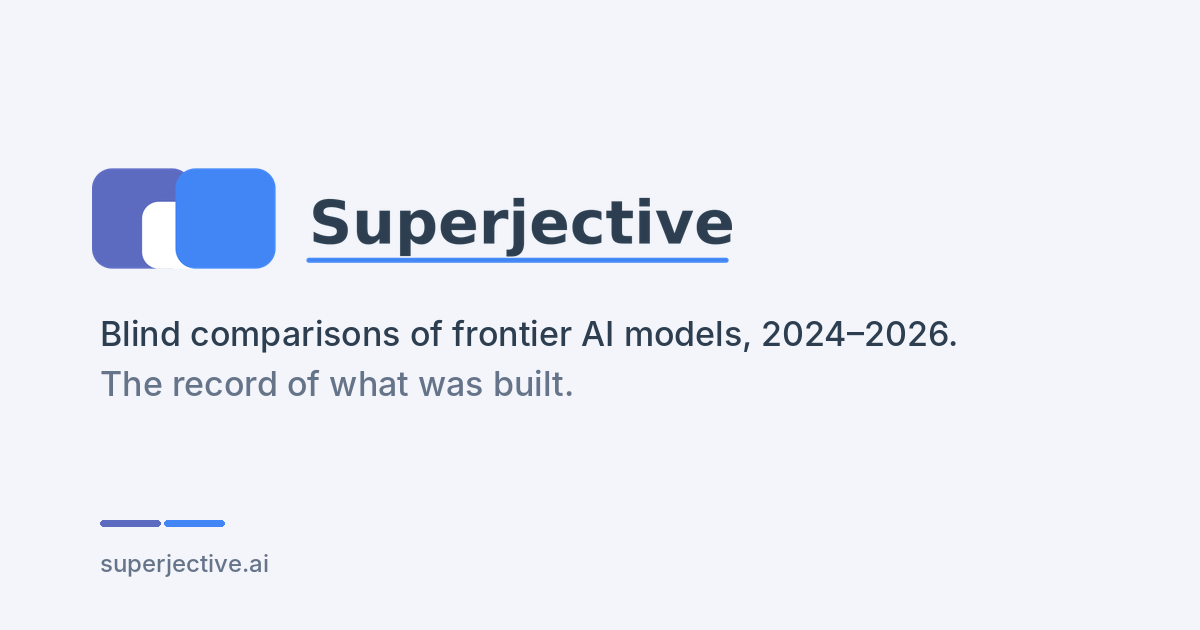
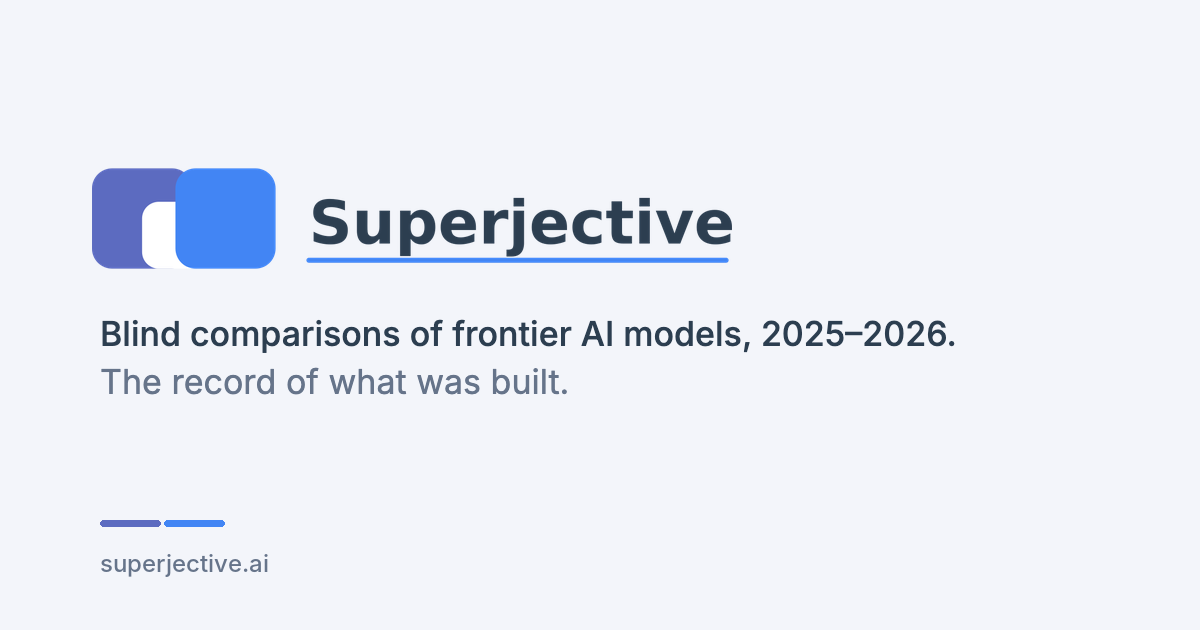
Update landing page content and assets

diff --git a/index.html b/index.html
@@ -4,21 +4,21 @@
 <meta charset="utf-8">
 <meta name="viewport" content="width=device-width, initial-scale=1">
 <title>Superjective</title>
-<meta name="description" content="Superjective ran blind comparisons of frontier AI models from 2024 to 2026. The benchmark, research and production system that came out of it, and where the work continues.">
+<meta name="description" content="Superjective ran blind comparisons of frontier AI models in 2025 and 2026. The benchmark, research and production system that came out of it, and where the work continues.">
 <link rel="canonical" href="https://superjective.ai/">
 
 <meta property="og:type" content="website">
 <meta property="og:site_name" content="Superjective">
 <meta property="og:url" content="https://superjective.ai/">
 <meta property="og:title" content="Superjective">
-<meta property="og:description" content="Blind comparisons of frontier AI models, 2024–2026. The benchmark, research and production system that came out of it.">
+<meta property="og:description" content="Blind comparisons of frontier AI models, 2025–2026. The benchmark, research and production system that came out of it.">
 <meta property="og:image" content="https://superjective.ai/assets/og-card.png">
 <meta property="og:image:width" content="1200">
 <meta property="og:image:height" content="630">
-<meta property="og:image:alt" content="Superjective: blind comparisons of frontier AI models, 2024–2026.">
+<meta property="og:image:alt" content="Superjective: blind comparisons of frontier AI models, 2025–2026.">
 <meta name="twitter:card" content="summary_large_image">
 <meta name="twitter:title" content="Superjective">
-<meta name="twitter:description" content="Blind comparisons of frontier AI models, 2024–2026. The benchmark, research and production system that came out of it.">
+<meta name="twitter:description" content="Blind comparisons of frontier AI models, 2025–2026. The benchmark, research and production system that came out of it.">
 <meta name="twitter:image" content="https://superjective.ai/assets/og-card.png">
 
 <link rel="icon" href="/assets/favicon.svg" type="image/svg+xml">
@@ -50,27 +50,30 @@
   <div class="hero">
     <div class="wrap">
       <div>
-        <h1>Which model output should you trust?</h1>
-        <p class="lede">Superjective was built to find out by asking people. From 2024 to 2026 it ran blind, side-by-side comparisons of frontier models: one prompt, several answers, the model names hidden until you had chosen. The preferences were kept as data. The product closed in October 2026, and what came out of it is below.</p>
-        <div class="now">
-          <p>The question didn't close with it. I'm now co-founder and COO of <a href="https://clearwood.ai">Clearwood</a>, which measures how deployed AI systems actually behave, independently of the vendors that built them.</p>
-          <span class="sig">Scott Burns</span>
-        </div>
+        <h1>Do you trust your model's output?</h1>
+        <p class="lede">Superjective was built to find out by gathering authentic user preferences. In 2025 and 2026 it ran blind, side-by-side comparisons of frontier models: one prompt, several answers, the model names hidden until the user had chosen. The preferences affected model sampling for the user and were kept for analysis. The product shut down in October 2026. Some insights from its run are featured below.</p>
       </div>
-      <figure class="shot">
+      <figure class="stack">
         <picture>
-          <source srcset="/assets/comparison-interface.webp" type="image/webp">
-          <img src="/assets/comparison-interface.png" width="1200" height="612" alt="The Superjective comparison screen: a prompt at the top, three anonymized responses labelled A, B and C side by side, each with a Select as Best button, and the chosen response expanded below." loading="eager">
+          <source srcset="/assets/hero-1-prompt.webp" type="image/webp">
+          <img src="/assets/hero-1-prompt.png" width="1200" height="362" alt="Step one: a question typed into Superjective. My doctor recommended knee replacement surgery. What questions should I ask before making this decision? A blue Generate Responses button sits below." loading="eager">
         </picture>
-        <figcaption>A comparison in progress. Three models answer the same prompt; the names are revealed after a choice is made.</figcaption>
+        <picture>
+          <source srcset="/assets/hero-2-compare.webp" type="image/webp">
+          <img src="/assets/hero-2-compare.png" width="1200" height="480" alt="Step two: three anonymous answers labelled Response A, B and C side by side, each with a Select as Best button. Response B is open below." loading="eager">
+        </picture>
+        <picture>
+          <source srcset="/assets/hero-3-reveal.webp" type="image/webp">
+          <img src="/assets/hero-3-reveal.png" width="1200" height="583" alt="Step three: the same three answers with the model names revealed, gpt-4.1-mini, claude-sonnet-4 and gemini-2.0-flash. The middle answer is marked Best Response in green." loading="eager">
+        </picture>
       </figure>
     </div>
   </div>
 
   <section id="work">
     <div class="wrap">
-      <h2>What came out of it</h2>
-      <p class="intro">Two artifacts worth a close look: a benchmark that still runs, and the product itself, closed and documented.</p>
+      <h2>Projects and findings</h2>
+      <p class="intro">A benchmark for model performance in a high-stakes workflow, and the Superjective app with preference data analysis.</p>
       <div class="work">
         <div class="block">
           <h3>AMLBench</h3>
@@ -85,7 +88,7 @@
         </div>
         <div class="block blue">
           <h3>Superjective</h3>
-          <p class="meta">Production system, 2024 to October 2026</p>
+          <p class="meta">Production system, 2025 to October 2026</p>
           <p>A React and FastAPI application in which people compared anonymized responses from Anthropic, OpenAI, Google, xAI and open-weight models, with a Thompson-sampling router that learned which models to show each person. Around it: a Chrome extension that drafted replies in any text field, with personal information stripped in the browser before anything was sent, and a phone line for comparisons by voice.</p>
           <p>The preferences people recorded were benchmarked against Anthropic's HH-RLHF dataset.</p>
           <p class="links">
@@ -93,6 +96,9 @@
             <a href="https://github.com/burnssa/ai-alignment-research/tree/master/naturalistic-dpo-experiment">Preference data vs HH-RLHF</a>
           </p>
         </div>
+      </div>
+      <div class="now">
+        <p>I'm still exploring the same question. Now as co-founder and COO of <a href="https://clearwood.ai">Clearwood</a>, which measures how deployed AI systems actually behave, independently of the vendors that built them.</p>
       </div>
     </div>
   </section>

diff --git a/assets/site.css b/assets/site.css
@@ -45,21 +45,29 @@ img, svg { max-width: 100%; height: auto; }
 .site-nav a:hover { color: var(--blue); }
 
 /* hero */
-.hero { padding: 64px 0 40px; }
+.hero { padding: 64px 0 16px; }
 .hero .wrap { display: grid; grid-template-columns: minmax(0, 1.05fr) minmax(0, 0.95fr); gap: 48px; align-items: start; }
 .hero h1 { font-size: 44px; max-width: 13em; margin-bottom: 24px; }
 .hero .lede { font-size: 18px; line-height: 1.55; color: var(--ink-2); max-width: var(--prose); }
-.now { margin-top: 32px; padding: 16px 0 16px 22px; border-left: 4px solid var(--blue); max-width: var(--prose); color: var(--ink); }
-.now .sig { display: block; margin-top: 6px; color: var(--muted); font-size: 15px; }
 .shot { margin: 8px 0 0; }
 .shot img { display: block; width: 100%; border: 1px solid var(--line); border-radius: 10px; background: var(--paper-2); }
 .shot figcaption { margin-top: 10px; font-size: 14px; color: var(--muted); line-height: 1.45; }
 
+/* hero image stack: three steps cascading down and to the right */
+.stack { margin: 8px 0 0; }
+.stack picture { display: block; position: relative; width: 80%; }
+.stack picture + picture { margin-top: -7%; }
+.stack picture:nth-child(2) { margin-left: 10%; z-index: 2; }
+.stack picture:nth-child(3) { margin-left: 20%; z-index: 3; }
+.stack img { display: block; width: 100%; border: 1px solid var(--line); border-radius: 10px; background: #fff; box-shadow: 0 10px 28px rgba(15, 23, 42, 0.14), 0 2px 6px rgba(15, 23, 42, 0.08); }
+
 /* sections */
 section { padding: 56px 0; }
 section + section { border-top: 1px solid var(--line); }
+.hero + section { padding-top: 24px; }
 h2 { font-size: 28px; margin-bottom: 10px; }
 .intro { color: var(--ink-2); max-width: var(--prose); margin-bottom: 36px; }
+#work .intro { max-width: none; }
 
 /* the two project blocks: the logo's two squares */
 .work { display: grid; grid-template-columns: 1fr 1fr; gap: 36px; }
@@ -69,6 +77,10 @@ h2 { font-size: 28px; margin-bottom: 10px; }
 .block .meta { font-size: 15px; color: var(--muted); margin-bottom: 16px; }
 .block p + p { margin-top: 12px; }
 .block .links { margin-top: 20px; display: flex; flex-wrap: wrap; gap: 8px 22px; font-size: 15px; }
+
+/* where the work continues: full width under the two blocks */
+.now { margin-top: 44px; padding-top: 24px; border-top: 1px solid var(--line); color: var(--ink); }
+.now .sig { display: block; margin-top: 6px; color: var(--muted); font-size: 15px; }
 
 /* research list */
 .posts { list-style: none; margin: 0; padding: 0; max-width: 760px; }
@@ -121,6 +133,7 @@ h2 { font-size: 28px; margin-bottom: 10px; }
   h2 { font-size: 24px; }
   .work { grid-template-columns: 1fr; gap: 32px; }
   .block h3 { font-size: 22px; }
+  .now { margin-top: 32px; }
   .legal h1 { font-size: 28px; }
 }
 
